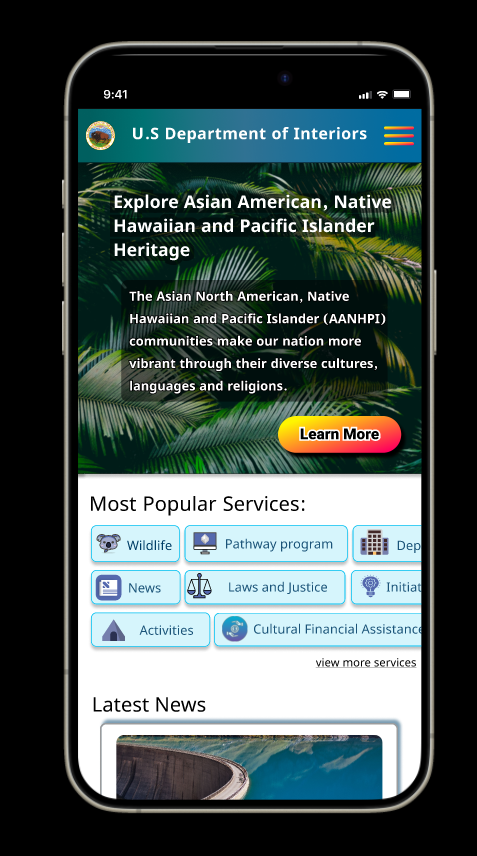
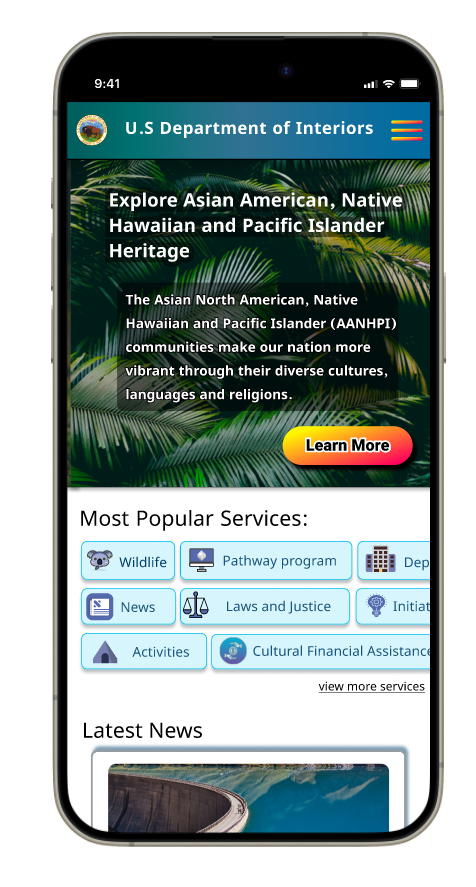
commit 62

diff --git a/index.html b/index.html
@@ -73,10 +73,10 @@
     </nav>
 
       
-    <div class="jumbotron jumbotron-fluid">
-             
-                 <h1>Transforming The Digital frontier</h1>
-                <p class="lead"> An independant project by Anika McPhee</p>
+    <div class="jumbotron jumbotron-fluid" >
+        <h1>Transforming The Digital frontier</h1>
+            <p class="lead"> An independant project by Anika McPhee</p>            
+                <img src="./images/iphonehomeredesgn (1).png" style="width: 100%;">             
     </div>
         
   
@@ -92,7 +92,7 @@
             <p style="color:white;"> At first glance, <span> users weren't confident in the webpages purpose</span>, two out of five mentioned thinking it was for a travel or vacation site. 
                 Through user research, <span> it was determined that the navigation is not intuitive for the majority of users. </span> </p>
             <h1> Solution</h1>  
-            <img src="./images/iphonehomeredesgn.png" style="width: 100%;">    
+             
             <p style="color: white;">Clarify the purpose and redesign the navigation to be more intuative for users. Read onwards to see my solutions and design decisions.</p>            
                             
         </div>                                

diff --git a/index.css b/index.css
@@ -213,15 +213,13 @@ body {
            }
            .jumbotron {
             font-size: 1.2rem;
-            /* width: 87%; */
+            
             margin-right: auto;
             margin-left: auto;
             color: white;
-           
-            
+                    
             background-color: #ffffff;
-            /* border-radius: 1.3rem; */
-            box-shadow: -1px 1px 14px 0px #00bFF0;
+          
         }
         .row {
             background-color: #000;
